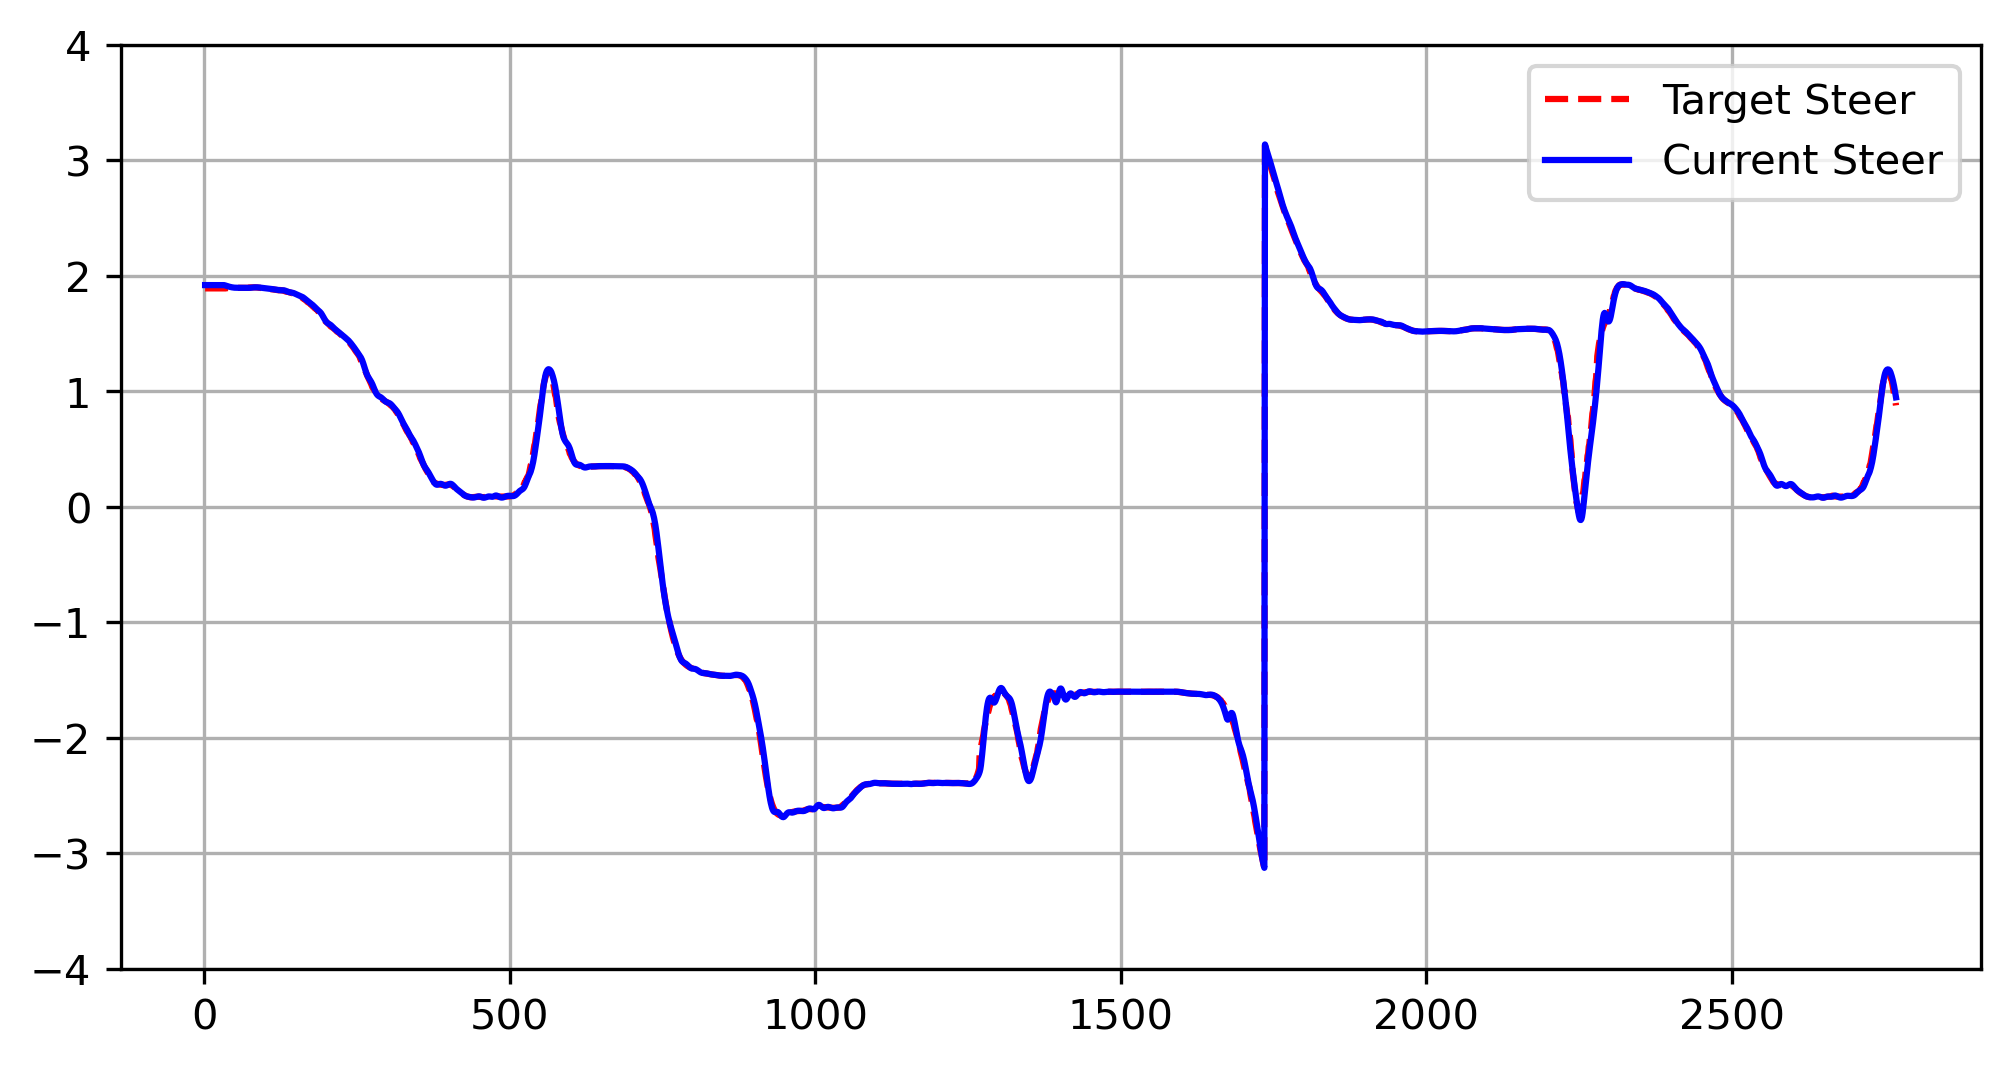
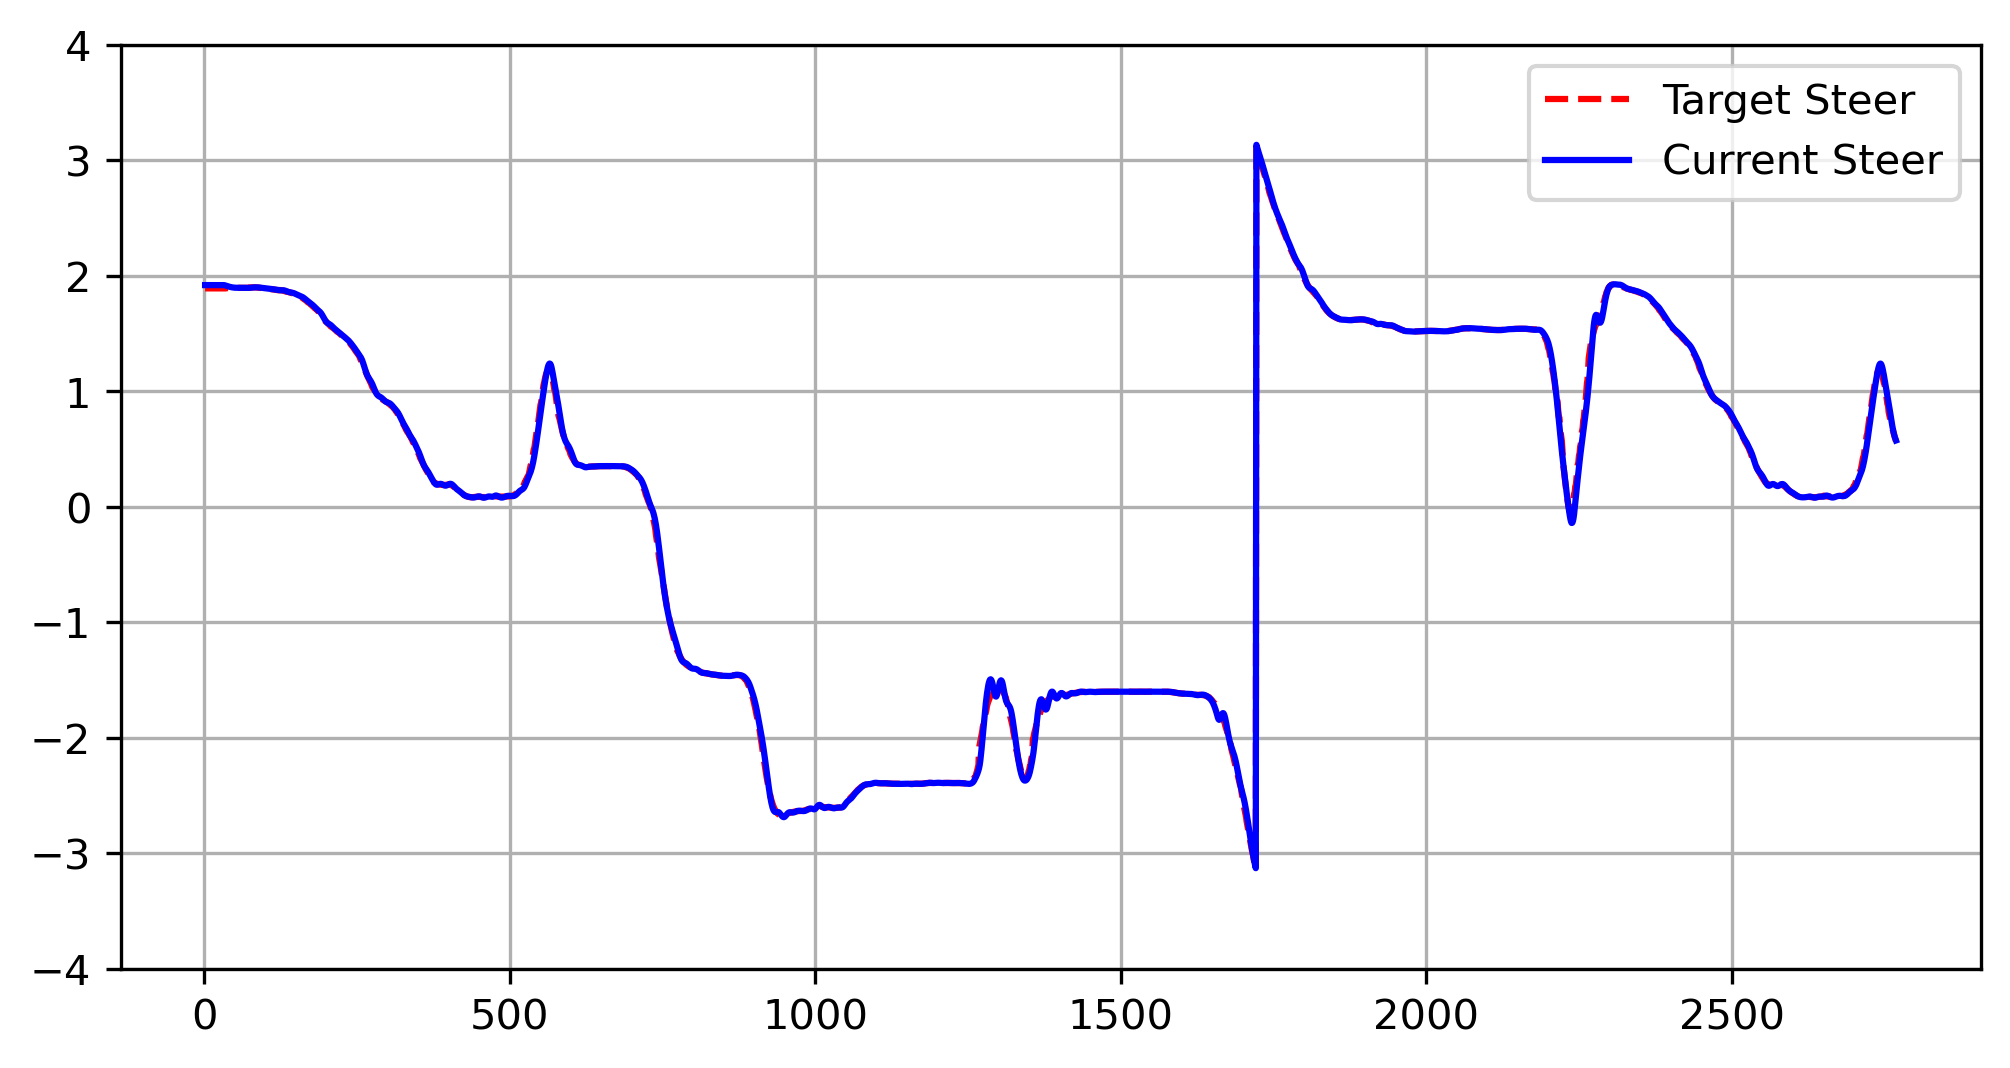
333.2

diff --git a/competition_code/submission.py b/competition_code/submission.py
@@ -93,7 +93,7 @@ class RoarCompetitionSolution:
 
         self.steer_controller.set_setpoint(target_steer)
         steer_control = self.steer_controller.calculate(current_steer)
-        steer_control = Tuner.tune_steer(steer_control, self.current_waypoint_idx)
+        #steer_control = Tuner.tune_steer(steer_control, self.current_waypoint_idx)
         steer_normalized = np.clip(-steer_control, -1.0, 1.0)
 
         #throttle_normalized, brake_normalized, steer_control = MathUtil.clamp_inputs(throttle_normalized, brake_normalized, steer_control)

diff --git a/competition_code/util/Tuner.py b/competition_code/util/Tuner.py
@@ -3,9 +3,8 @@ class Tuner:
     @staticmethod
     def tune_target_speed(target_speed, waypoint):
         if (waypoint < 450 or 745 <= waypoint <= 870 or (waypoint >= 2550 and target_speed > 35)): return target_speed * 38/35
-        elif (1200 <= waypoint <= 1450): return target_speed * 40/35
         elif (waypoint >= 2550): return target_speed 
-        elif (450 <= waypoint <= 510): return min(target_speed, 35.1)
+        elif (450 <= waypoint <= 510): return min(target_speed, 34.9)
         return target_speed * 44/35
 
     @staticmethod
